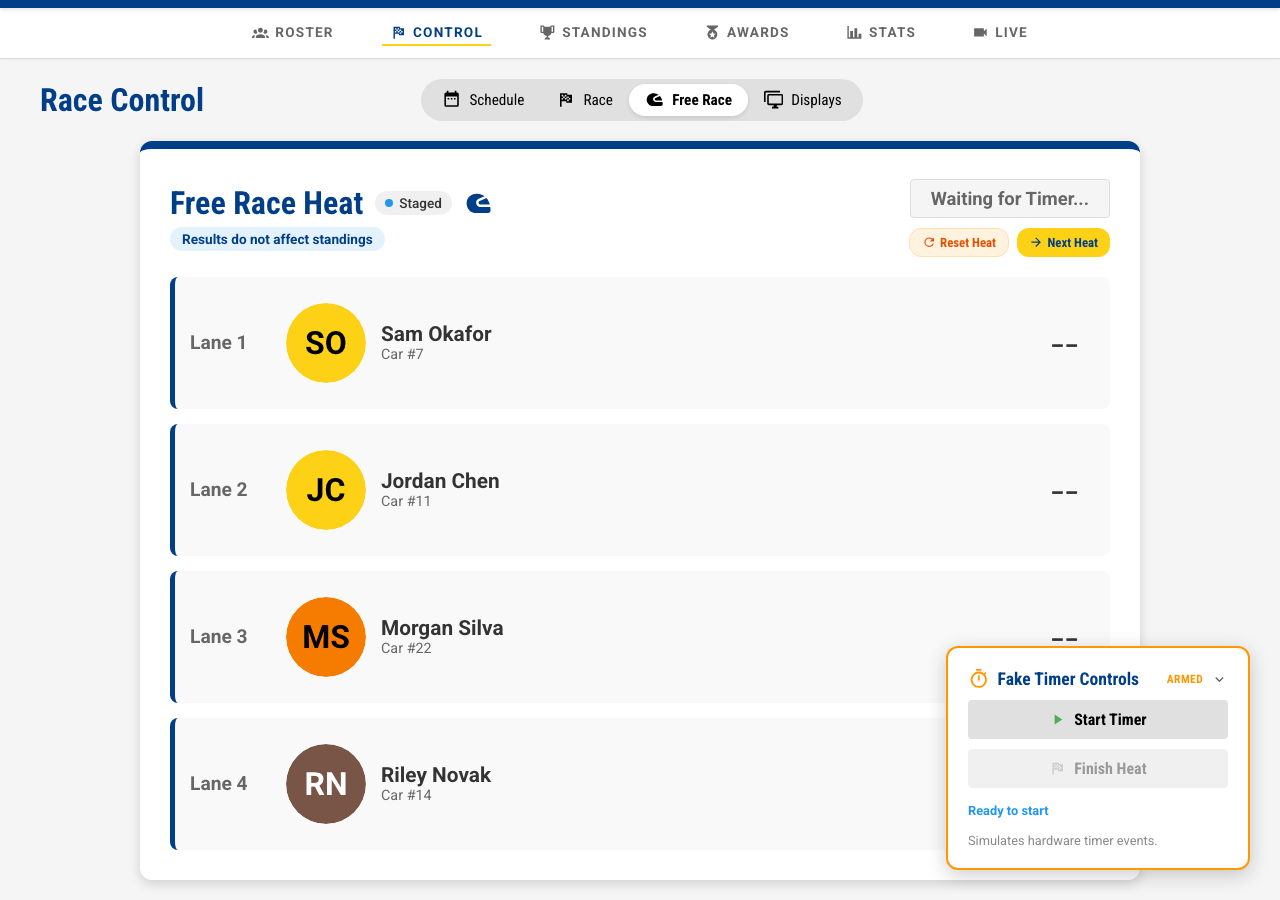
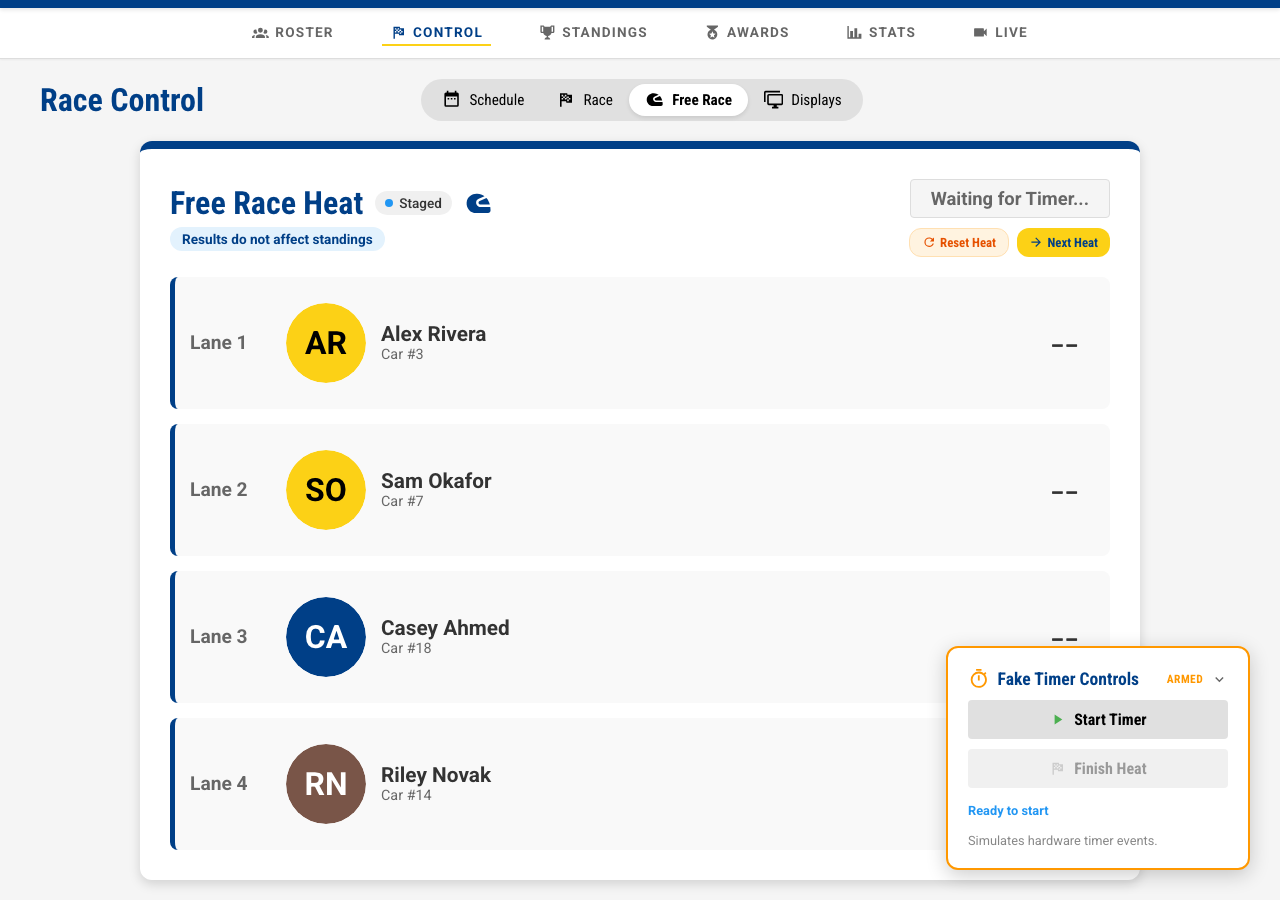
fix(free-race): make Re-shuffle draw again, not the same draw (#285)
The public demo sets `TRUSTYTRACK_DEMO_SEED`, deliberately, so every
visitor sees the same roster and the same times. The free race lane draw
was keyed on the race alone — `free-race lanes:{name}` — which under a
seed gives every call the identical answer, so Re-shuffle re-fetched the
same question, got the same lanes back, and did nothing at all. On an
unseeded install it worked, which is why nothing caught it: the existing
tests and the end-to-end specs all run without the seed.

Count the draws and key each one separately. `randomFreeRaceLanes` takes
a `shuffle` argument, the setup screen holds the count and passes it as a
query variable, and Re-shuffle increments it. Draw 0 is still fixed, so
the demo's opening lanes and the documentation screenshots stay
deterministic — the four free-race images are regenerated here because
that first draw's key changed.

The button is also no longer disabled while a draw is in flight. A second
click on a slow connection was swallowed, which reads as the same bug for
a different reason; the counter is local, so each click asks a new
question and the last answer to arrive is the one on screen.

diff --git a/frontend/src/features/racing/components/FreeRaceLaneSetup.test.tsx b/frontend/src/features/racing/components/FreeRaceLaneSetup.test.tsx
@@ -80,11 +80,57 @@ describe('FreeRaceLaneSetup', () => {
     expect(screen.getByText(/Bob Jones/)).toBeInTheDocument();
   });
 
-  it('Re-shuffle button triggers a new query with network-only policy', async () => {
+  it('Re-shuffle asks the server for the next draw, not the same one again', async () => {
+    // The draw may be seeded (`demo_seed`), and a key naming only the race
+    // gives every draw the same answer — which is the public demo, where
+    // re-fetching the identical query left the lanes untouched. The counter is
+    // a query variable so a re-shuffle asks a different question.
+    const seen: unknown[] = [];
+    (useQuery as any).mockImplementation(({ query, variables }: any) => {
+      if (query.includes('randomFreeRaceLanes')) {
+        seen.push(variables);
+        return [mockResult, mockReExecute];
+      }
+      return [emptyResult, vi.fn()];
+    });
+
     render(<StatefulWrapper {...defaultProps} />);
-    const reshuffleBtn = screen.getByRole('button', { name: /Re-shuffle/i });
-    fireEvent.click(reshuffleBtn);
-    expect(mockReExecute).toHaveBeenCalledWith({ requestPolicy: 'network-only' });
+    expect(seen[seen.length - 1]).toEqual({ raceId: 1, shuffle: 0 });
+
+    fireEvent.click(screen.getByRole('button', { name: /Re-shuffle/i }));
+    expect(seen[seen.length - 1]).toEqual({ raceId: 1, shuffle: 1 });
+
+    fireEvent.click(screen.getByRole('button', { name: /Re-shuffle/i }));
+    expect(seen[seen.length - 1]).toEqual({ raceId: 1, shuffle: 2 });
+  });
+
+  it('a new draw replaces the lanes on screen', async () => {
+    const first = { data: { randomFreeRaceLanes: mockRandomLanes }, fetching: false };
+    const second = {
+      data: {
+        randomFreeRaceLanes: [
+          { lane: 1, racerId: 102 },
+          { lane: 2, racerId: 101 },
+        ],
+      },
+      fetching: false,
+    };
+    (useQuery as any).mockImplementation(({ query, variables }: any) => {
+      if (query.includes('randomFreeRaceLanes')) {
+        return [variables.shuffle === 0 ? first : second, mockReExecute];
+      }
+      return [emptyResult, vi.fn()];
+    });
+
+    render(<StatefulWrapper {...defaultProps} />);
+    await waitFor(() => expect(screen.getByText(/Alice Smith/)).toBeInTheDocument());
+
+    fireEvent.click(screen.getByRole('button', { name: /Re-shuffle/i }));
+
+    await waitFor(() => {
+      const lanes = screen.getAllByText(/Alice Smith|Bob Jones/).map((e) => e.textContent);
+      expect(lanes).toEqual(['Bob Jones', 'Alice Smith']);
+    });
   });
 
   it('switching to Manual mode shows a dropdown for each lane', async () => {
@@ -107,7 +153,7 @@ describe('FreeRaceLaneSetup', () => {
 
     // Assign Alice (101) to lane 1
     const selects = screen.getAllByRole('combobox');
-    
+
     // Focus and select Alice
     await user.click(selects[0]);
     await user.type(selects[0], 'Alice');
@@ -128,10 +174,10 @@ describe('FreeRaceLaneSetup', () => {
     await waitFor(() => {
       expect(screen.getAllByRole('combobox')).toHaveLength(4);
     });
-    
+
     const selects = screen.getAllByRole('combobox');
     await user.click(selects[0]);
-    
+
     // Carol is NOT checked in, but we now show all racers in Manual mode
     expect(screen.getByText(/Carol White/)).toBeInTheDocument();
   });
@@ -173,7 +219,7 @@ describe('FreeRaceLaneSetup', () => {
     await waitFor(() => {
       expect(screen.getAllByRole('combobox')).toHaveLength(4);
     });
-    
+
     // Assign Alice to lane 1
     const selects = screen.getAllByRole('combobox');
     await user.click(selects[0]);

diff --git a/frontend/src/features/racing/components/FreeRaceLaneSetup.tsx b/frontend/src/features/racing/components/FreeRaceLaneSetup.tsx
@@ -210,16 +210,23 @@ export const FreeRaceLaneSetup: React.FC<FreeRaceLaneSetupProps & { racers: Reco
   );
   const [randomAssignments, setRandomAssignments] = useState<LaneAssignment[]>([]);
 
-  const [randomResult, reExecuteRandom] = useQuery({
+  // Which draw is on screen: 0 when the setup opens, then one per Re-shuffle.
+  // It is a query variable rather than a bare refetch because the server's
+  // draw may be seeded (`demo_seed`), and a draw keyed on the race alone comes
+  // out identical however many times it is asked for — which is exactly what
+  // the public demo does, so Re-shuffle there could not change anything.
+  const [shuffle, setShuffle] = useState(0);
+
+  const [randomResult] = useQuery({
     query: `
-      query GetRandomFreeRaceLanes($raceId: Int!) {
-        randomFreeRaceLanes(raceId: $raceId) {
+      query GetRandomFreeRaceLanes($raceId: Int!, $shuffle: Int!) {
+        randomFreeRaceLanes(raceId: $raceId, shuffle: $shuffle) {
           lane
           racerId
         }
       }
     `,
-    variables: { raceId },
+    variables: { raceId, shuffle },
     requestPolicy: 'network-only',
   });
 
@@ -245,8 +252,12 @@ export const FreeRaceLaneSetup: React.FC<FreeRaceLaneSetupProps & { racers: Reco
 
   const allRacersList = Object.values(racers);
 
+  // Not disabled while the draw is in flight: an operator clicking twice on a
+  // slow connection had the second click swallowed and read that as the button
+  // doing nothing. Counting the clicks is local, so each one asks a new
+  // question and the last answer to arrive is the one on screen.
   const handleReshuffle = () => {
-    reExecuteRandom({ requestPolicy: 'network-only' });
+    setShuffle((n) => n + 1);
   };
 
   const handleManualChange = (lane: number, racerId: number | null) => {
@@ -392,7 +403,6 @@ export const FreeRaceLaneSetup: React.FC<FreeRaceLaneSetupProps & { racers: Reco
             {mode === 'random' && (
               <button
                 onClick={handleReshuffle}
-                disabled={randomResult.fetching}
                 style={{
                   padding: '10px 20px',
                   border: '1px solid #ccc',

diff --git a/frontend/src/gql/schema.ts b/frontend/src/gql/schema.ts
@@ -767,6 +767,7 @@ export type QueryRacesArgs = {
 
 export type QueryRandomFreeRaceLanesArgs = {
   raceId: Scalars['Int']['input'];
+  shuffle?: Scalars['Int']['input'];
 };
 
 

diff --git a/backend/tests/test_seeded_draw_inputs.py b/backend/tests/test_seeded_draw_inputs.py
@@ -77,7 +77,7 @@ class TestFreeRaceLanes:
         picks = crud.get_random_lane_assignments(db, race.id, 4)
 
         expected = sorted(ids)
-        random.Random(f"{SEED}:free-race lanes:{race.name}").shuffle(expected)
+        random.Random(f"{SEED}:free-race lanes:{race.name}:0").shuffle(expected)
         assert [p["racer_id"] for p in picks] == expected[:4]
 
     def test_two_calls_agree(self, db):
@@ -88,6 +88,39 @@ class TestFreeRaceLanes:
         assert crud.get_random_lane_assignments(
             db, race.id, 4
         ) == crud.get_random_lane_assignments(db, race.id, 4)
+
+    def test_a_re_shuffle_draws_again(self, db):
+        """Re-shuffle has to change something, seed or no seed.
+
+        Every draw of a race used to share one key, so under a seed they all
+        came out identical — which is the public demo, where the button could
+        not do anything at all. Counting the draws keys them apart.
+        """
+        race = _race(db, name="Re-shuffle Derby")
+        _racers(db, race.id, 8)
+
+        draws = [
+            tuple(
+                p["racer_id"]
+                for p in crud.get_random_lane_assignments(db, race.id, 4, shuffle=n)
+            )
+            for n in range(4)
+        ]
+
+        assert len(set(draws)) == len(draws)
+
+    def test_a_given_draw_is_still_repeatable(self, db):
+        """The counter keys the draw; it does not make it random again.
+
+        A screen that reloads asks for draw 0 and must get the same lanes back,
+        which is what the seed is for.
+        """
+        race = _race(db, name="Repeatable Re-shuffle Derby")
+        _racers(db, race.id, 8)
+
+        assert crud.get_random_lane_assignments(
+            db, race.id, 4, shuffle=3
+        ) == crud.get_random_lane_assignments(db, race.id, 4, shuffle=3)
 
 
 @pytest.mark.usefixtures("seeded")

diff --git a/backend/api/schema.py b/backend/api/schema.py
@@ -1857,17 +1857,27 @@ class Query:
 
     @strawberry.field
     def random_free_race_lanes(
-        self, info: Info, race_id: int
+        self, info: Info, race_id: int, shuffle: int = 0
     ) -> list[FreeRaceLaneAssignment]:
         """
         Return a random lane assignment for the race's track lane count,
         using only checked-in racers. Frontend can display this as a preview
         before the operator commits to starting the heat.
+
+        ``shuffle`` counts the re-shuffles the operator has asked for, and it
+        exists because the draw may be seeded (`demo_seed`): the public demo
+        sets ``TRUSTYTRACK_DEMO_SEED``, so without it every call keyed on the
+        race alone returned the identical draw and the Re-shuffle button did
+        nothing at all. Counting the draws keys each one separately, so a
+        re-shuffle really re-shuffles while the *first* draw a screen shows
+        stays the fixed one the screenshots and the demo want.
         """
         db = info.context["db"]
         race = db.query(models.Race).filter(models.Race.id == race_id).first()
         lane_count = race.track.lane_count if race and race.track else 4
-        assignments = crud.get_random_lane_assignments(db, race_id, lane_count)
+        assignments = crud.get_random_lane_assignments(
+            db, race_id, lane_count, shuffle=shuffle
+        )
         return [
             FreeRaceLaneAssignment(lane=a["lane"], racer_id=a["racer_id"])
             for a in assignments

diff --git a/backend/db/crud.py b/backend/db/crud.py
@@ -2142,11 +2142,18 @@ def get_random_lane_assignments(
     db: Session,
     race_id: int,
     lane_count: int,
+    shuffle: int = 0,
 ) -> list[dict]:
     """
     Randomly select `lane_count` checked-in racers and return lane assignments.
     If fewer than `lane_count` racers are checked in, fill remaining lanes with
     empty slots (racer_id=None).
+
+    ``shuffle`` is which draw this is — 0 for the one a screen opens on, then
+    1, 2, ... for each Re-shuffle. It is part of the key because the draw may
+    be seeded, and a key naming only the race gives every draw the same answer:
+    on the public demo, which sets ``TRUSTYTRACK_DEMO_SEED``, that made
+    Re-shuffle a button that could not change anything.
     """
     # Ordered because the shuffle below may be seeded (`demo_seed`): a shuffle
     # is only as repeatable as the order of what it shuffles, and a query
@@ -2158,9 +2165,9 @@ def get_random_lane_assignments(
         .all()
     )
     race = db.query(models.Race).filter(models.Race.id == race_id).first()
-    demo_seed.generator(f"free-race lanes:{race.name if race else race_id}").shuffle(
-        pool
-    )
+    demo_seed.generator(
+        f"free-race lanes:{race.name if race else race_id}:{shuffle}"
+    ).shuffle(pool)
     selected = pool[:lane_count]
 
     assignments = []

diff --git a/docs/tasks/free-race/03_frontend_lane_setup.md b/docs/tasks/free-race/03_frontend_lane_setup.md
@@ -87,7 +87,7 @@ Filter client-side to `carPassedInspection === true`.
 ## Implementation Notes
 
 - Use `useQuery` from `urql` for both queries.
-- The "Re-shuffle" button in random mode re-executes the `randomFreeRaceLanes` query with `requestPolicy: 'network-only'` to bypass the cache.
+- The "Re-shuffle" button in random mode counts the draws and passes the count as `randomFreeRaceLanes(raceId, shuffle)`. **Departure from this plan**: it was built as a bare re-execute with `requestPolicy: 'network-only'`, which bypasses the cache but asks the server the same question — and the draw is keyed for repeatability (`demo_seed`), so on the public demo, which sets `TRUSTYTRACK_DEMO_SEED`, every re-shuffle returned the identical lanes and the button did nothing at all. Counting the draws keys each one separately; the first draw a screen opens on is still fixed, which is what the demo and the documentation screenshots want.
 - In manual mode, each lane has a `<select>` element. The options list excludes racers already assigned to another lane (to prevent duplicates). An "Empty" option is always available.
 - The "Start Free Race Heat" button is disabled if no lanes have a racer assigned.
 - Display a clear banner: **"Free Race — results do not affect standings"** in gold/warning style.

diff --git a/docs/design.md b/docs/design.md
@@ -160,7 +160,7 @@ The backend exposes a **GraphQL API** at `/graphql` (using Strawberry) for all d
 -   `displays(raceId)` — Audience displays known for this race, connected or not. Presence is in-memory (see below), so this is not a database read.
 -   `timerModels()` — The timer models an operator can pick from, with the provenance of each profile. The fake timer is deliberately absent: it is reachable by `timer_type`, and offering it as a *model* would let a track ask for a fake timer over a real serial port.
 -   `heatSession(trackId, heatId)` — What is on the track right now (see below).
--   `freeRaceHeats(raceId)`, `activeFreeRaceHeat(raceId)`, `randomFreeRaceLanes(raceId)`
+-   `freeRaceHeats(raceId)`, `activeFreeRaceHeat(raceId)`, `randomFreeRaceLanes(raceId, shuffle)`
 -   `version` — Running application version.
 
 **GraphQL Mutations:**
